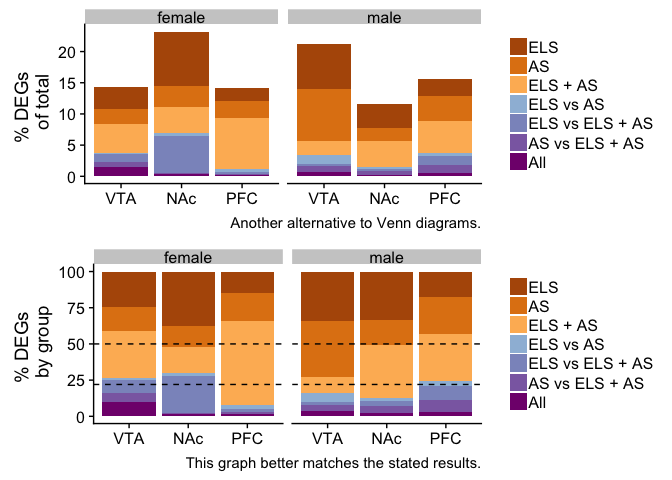
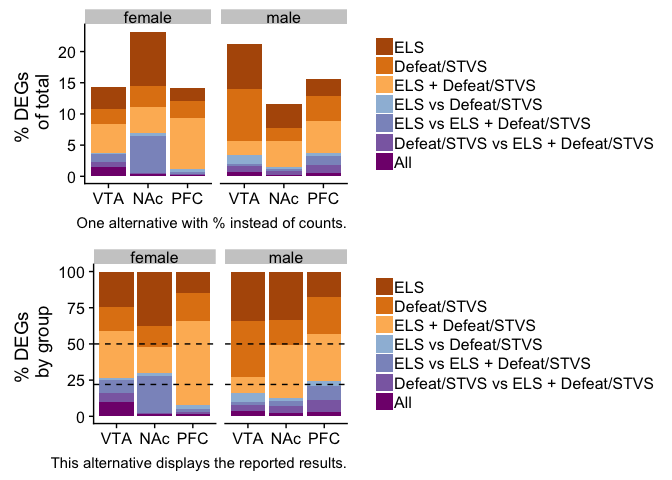
better legend and caption

diff --git a/examples/pena2019/fig2venn.md b/examples/pena2019/fig2venn.md
@@ -111,8 +111,6 @@ transcripted from the text within the figure to the best of my ability.
 Colors for the bars were chosen by uploaded screen shots of the male and
 female venns and generating hex codes from
 <a href="https://imagecolorpicker.com/" class="uri">https://imagecolorpicker.com/</a>.
-I use “AS” to stands “adult stress” which encompaseses “Defeat” and
-“STVS”.
 
 ![](./fig2venn-alt1-1.png)
 
@@ -148,8 +146,8 @@ manuscript. I don’t think this figure aggrees with the stated results. I
 see the female VTA and NAc and the male PFC as having greater than 25%
 DEGs shared between one or more stress groups, which the other three
 show &lt; 25%. I do see that in the female NAc, 50% of the genes are
-unique to either ELS or AS alone. Maybe this is what those results refer
-to…
+unique to either ELS or Defeat/STVS alone. Maybe this is what those
+results refer to…
 
 **Figure 2 heat maps:** I don’t often see two heatmaps with different
 clustering approaches shown side by side, but I like this. I’m more used
